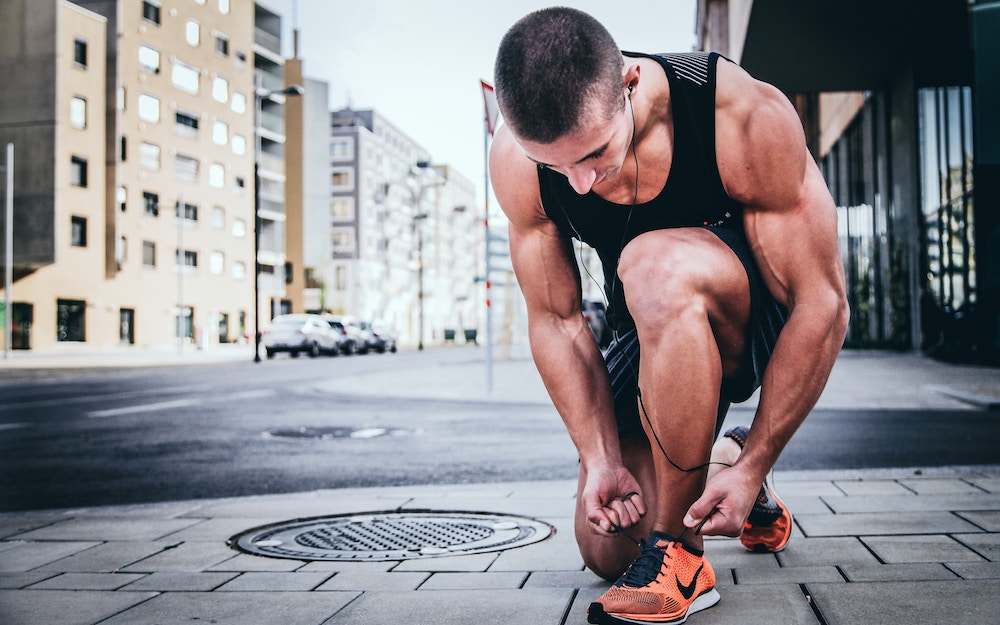
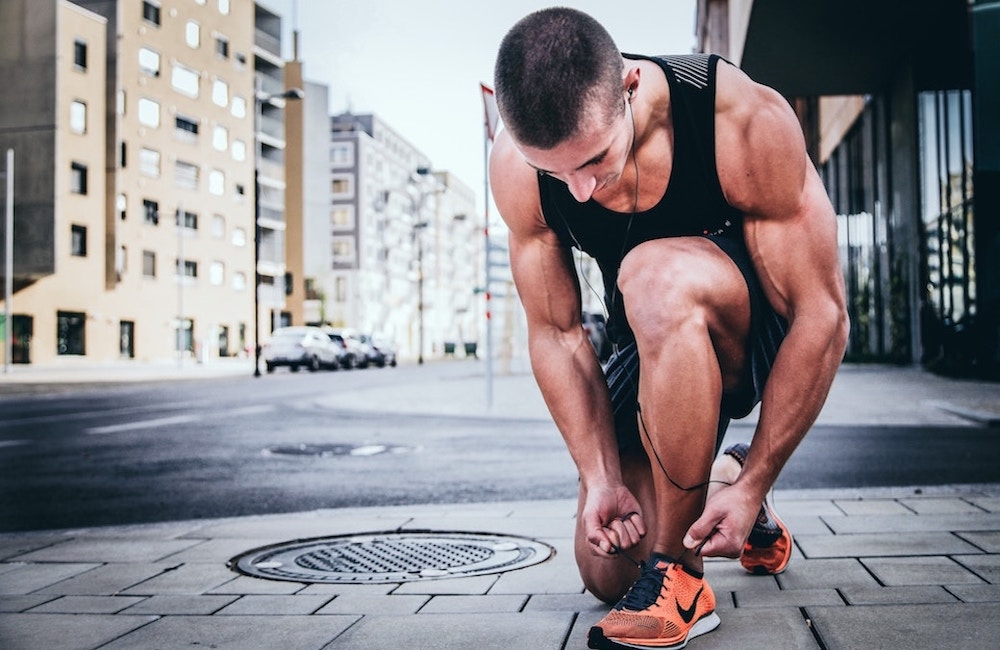
edited home page and added link to lessons show page

Changed region(s): [[0.62, 0.9424, 0.713, 1.0], [0.651, 0.0912, 0.713, 0.152], [0.651, 0.8512, 0.682, 0.8816]]

diff --git a/app/assets/stylesheets/pages/_home.scss b/app/assets/stylesheets/pages/_home.scss
@@ -1,7 +1,7 @@
 // Specific CSS for your home-page
 
 .jumbo-img {
-  background: linear-gradient(rgba(0,0,0,0.3), rgba(0,0,0,0.2)),image-url("gym") top;
+  background: linear-gradient(rgba(0,0,0,0.6), rgba(0,0,0,0.2)),image-url("cover") center;
   background-size: cover;
   height: 60vh;
   display: flex;
@@ -12,13 +12,23 @@
     color: $lightgray;
   }
   p {
-    opacity: 0.6;
+    opacity: 0.8;
   }
 }
 
-.home-body p {
+.thumbnail-row {
+  margin: 20px 0;
+}
+
+.home-body {
+  min-height: 30 vh;
+}
+.home-body h2 {
   padding: 10px;
-  border-top: 1px solid $lightblue;
+  border-top: 1px solid rgba(230, 126, 34, 0.3);
   font-weight: lighter;
 }
 
+.home-body p {
+  padding: 0 20px;
+}

diff --git a/app/assets/stylesheets/layouts/_general_layout.scss b/app/assets/stylesheets/layouts/_general_layout.scss
@@ -41,10 +41,30 @@
 // }
 
 .container-fluid {
-  max-width: 375px;
+  min-width: 375px;
+  max-width: 750px;
 }
 
+.thumbnail {
+  border: 1px solid rgba(230, 126, 34, 0.3);
+  h3 {
+    text-transform: uppercase;
+    color: $darkblue;
+    font-weight: lighter;
+  }
+  p {
+    color: $darkblue;
+    font-weight: lighter;
+  }
+}
 
+.thumbnail:hover {
+  opacity: 0.8;
+
+}
+.orange {
+  color: $orange;
+}
 // html tags
 
 body{

diff --git a/app/assets/stylesheets/pages/_users_show.scss b/app/assets/stylesheets/pages/_users_show.scss
@@ -5,12 +5,14 @@
   overflow: scroll;
 }
 
-.user-show-content{
-  padding: 20px 15px 20px 15px;
+.user-show-icons{
+  width: 150px;
+
   ul {
     list-style-type: none;
     display: flex;
     justify-content: space-around;
+    padding: 0;
   }
 
   .fas {
@@ -19,6 +21,12 @@
   .fab {
     font-size: 20px;
   }
+}
+
+.user-show-content{
+  padding: 10px 15px;
+  display: flex;
+  justify-content: space-around;
 }
 
 

diff --git a/app/assets/stylesheets/components/_button.scss b/app/assets/stylesheets/components/_button.scss
@@ -33,6 +33,18 @@
   color: $grayblue;
 }
 
+
+.btn:focus {
+  outline: none;
+}
+
+.small-button-dark:hover {
+  text-decoration: none;
+  color: $grayblue;
+  background-color: $darkblue ;
+  outline: none;
+}
+
 .form-btn {
   display: flex;
   justify-content: center;
@@ -44,3 +56,4 @@
   text-decoration: none;
   color: $grayblue;
 }
+
